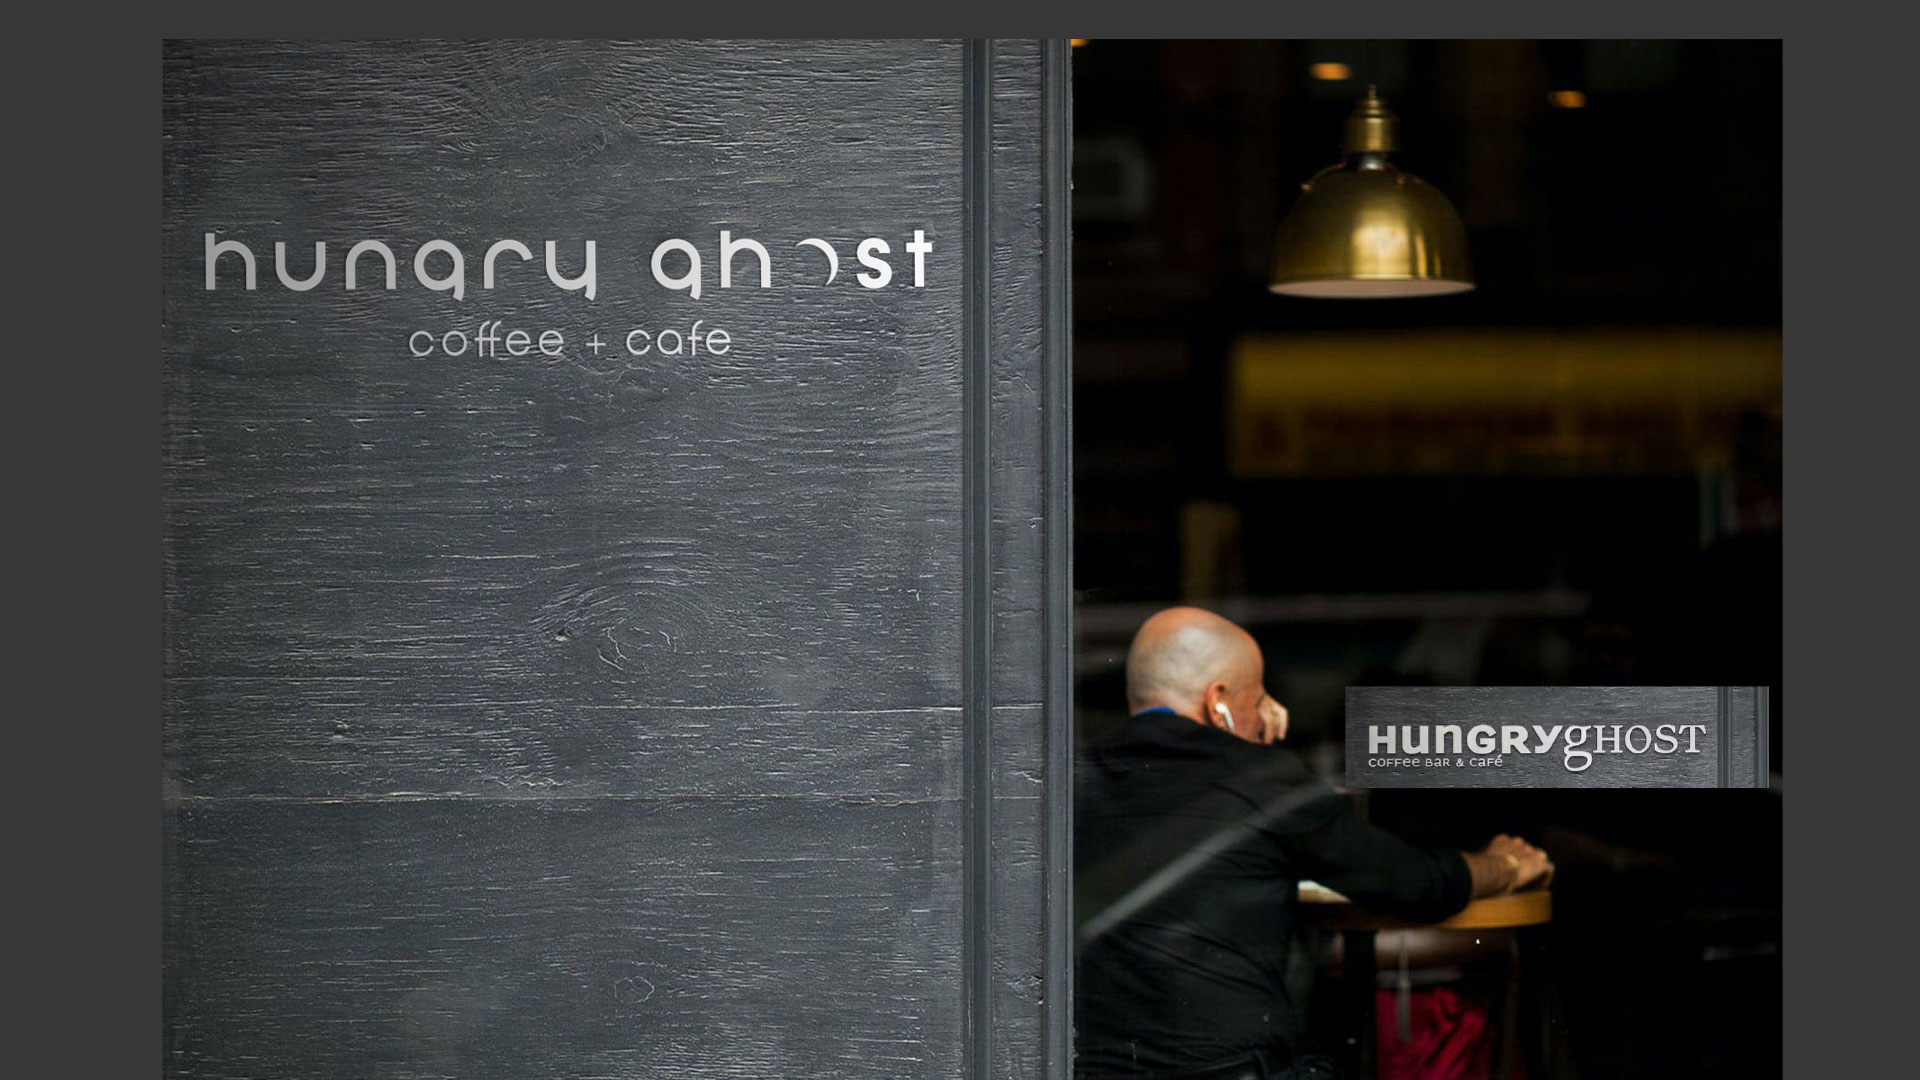
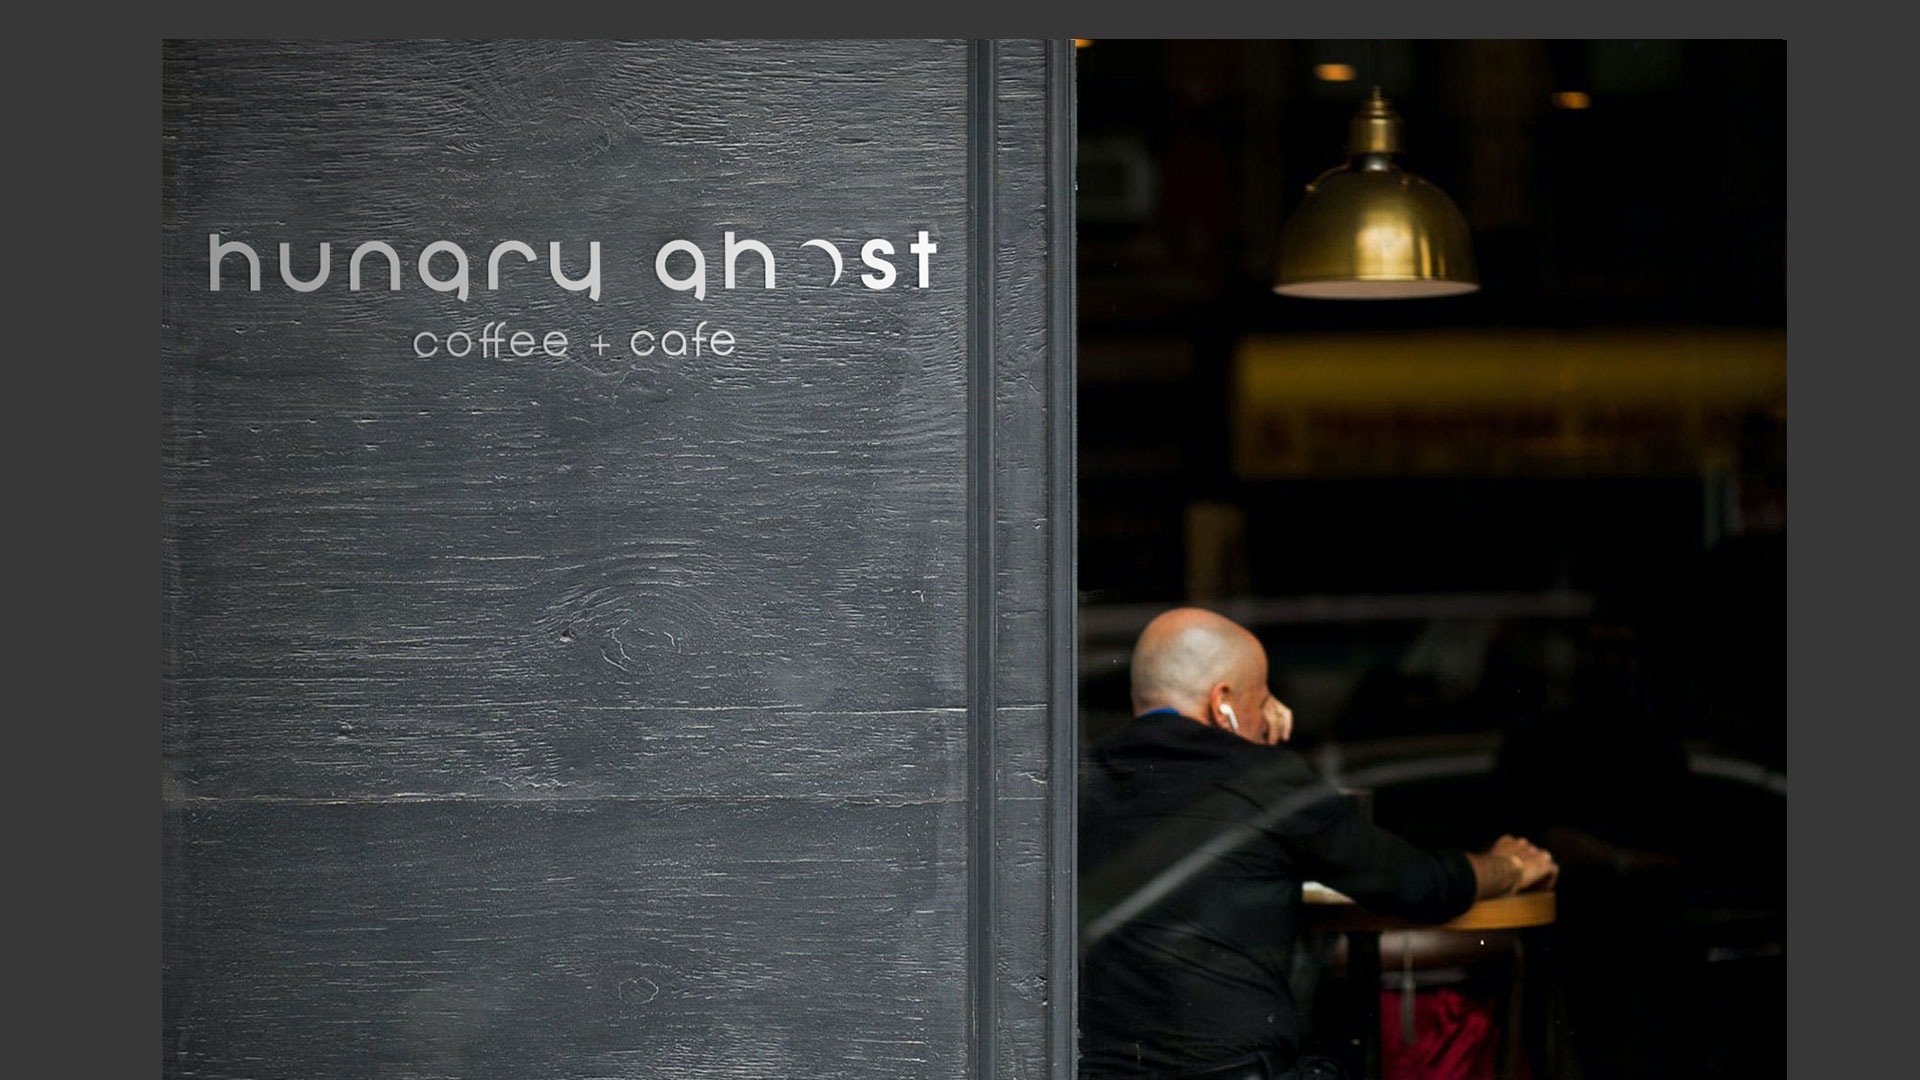
hg

diff --git a/single-project-8.html b/single-project-8.html
@@ -473,7 +473,14 @@
 												Hungry Ghost Coffee is known to be a charming yet sophisticated coffee shop in NYC, however, the current branding (and space) can be viewed as intimidating. 
 												The newly redesigned logo features a friendlier, rounded typeface, while the overall branding still holds onto its sophisticated roots.
 											</p>
+											<p>Original Logo:</p>
 										</div>
+
+										<img src="assets/img/oglogo.png" class="anim-fadeinup margin-top-30" alt="Signature">
+		
+									</div>
+
+										
 
 										<!-- <div class="tt-btn tt-btn-link anim-fadeinup no-margin">
 											<a href="dummy-page.html" data-hover="Read More">Read More</a>
@@ -511,7 +518,7 @@
 											data-src="assets/img/portfolio/single-project/project-8/project-8-1.jpg"
 											alt="image"
 										/>
-										<figcaption>Original Logo</figcaption>
+										<figcaption>New Logo</figcaption>
 									</figure>
 								</div>
 								<!-- End tt-image -->
